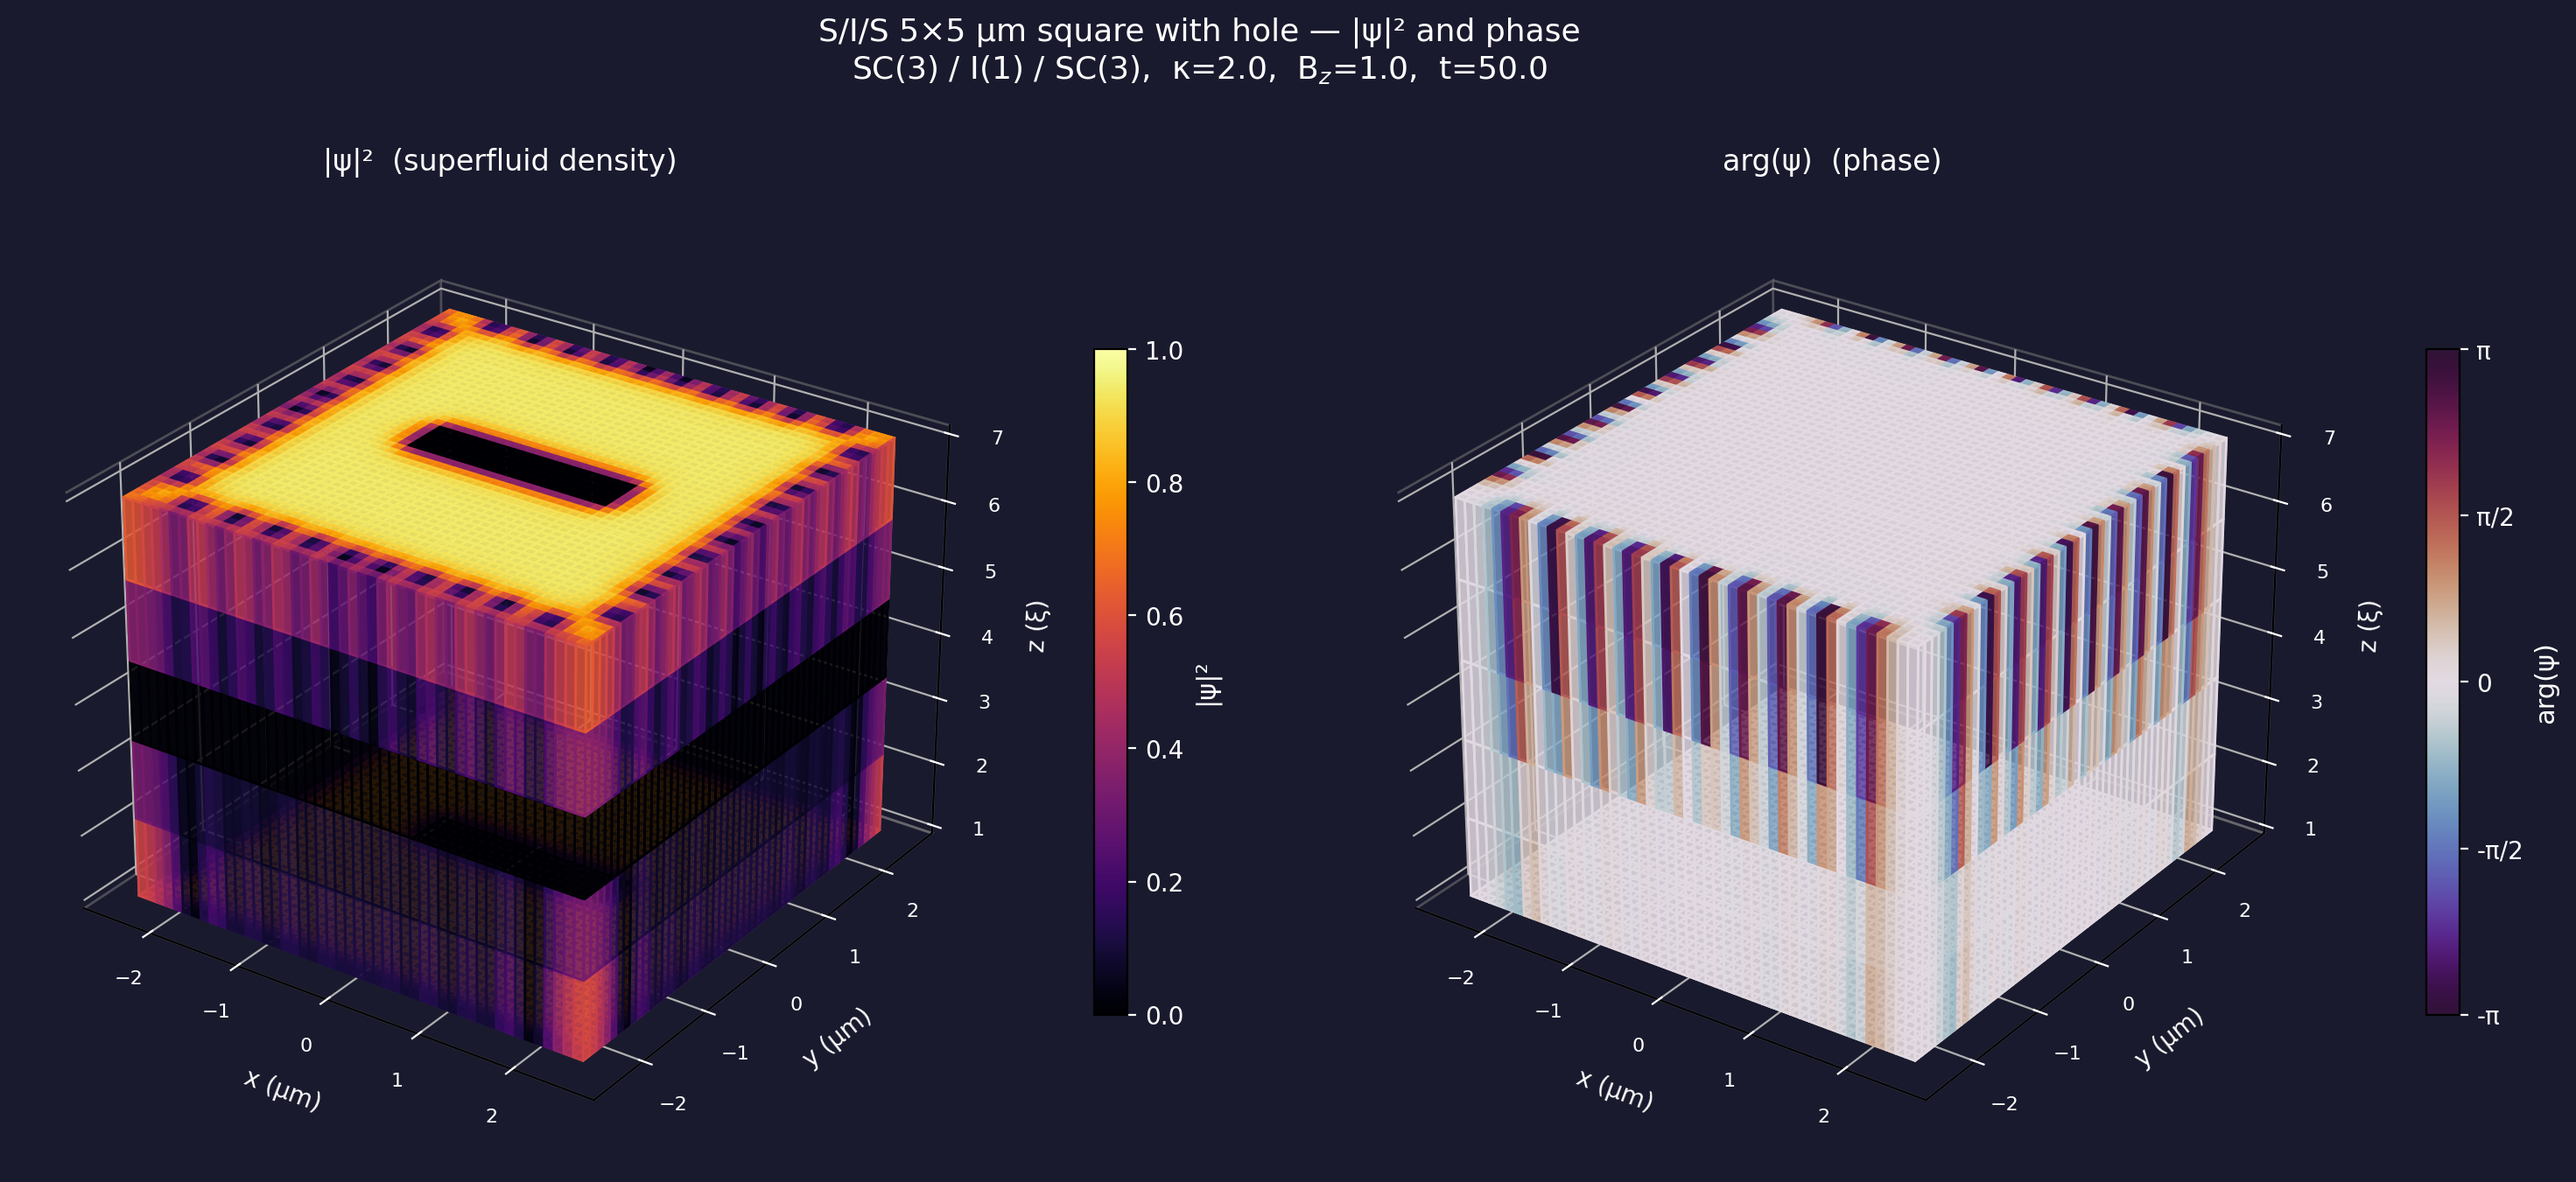
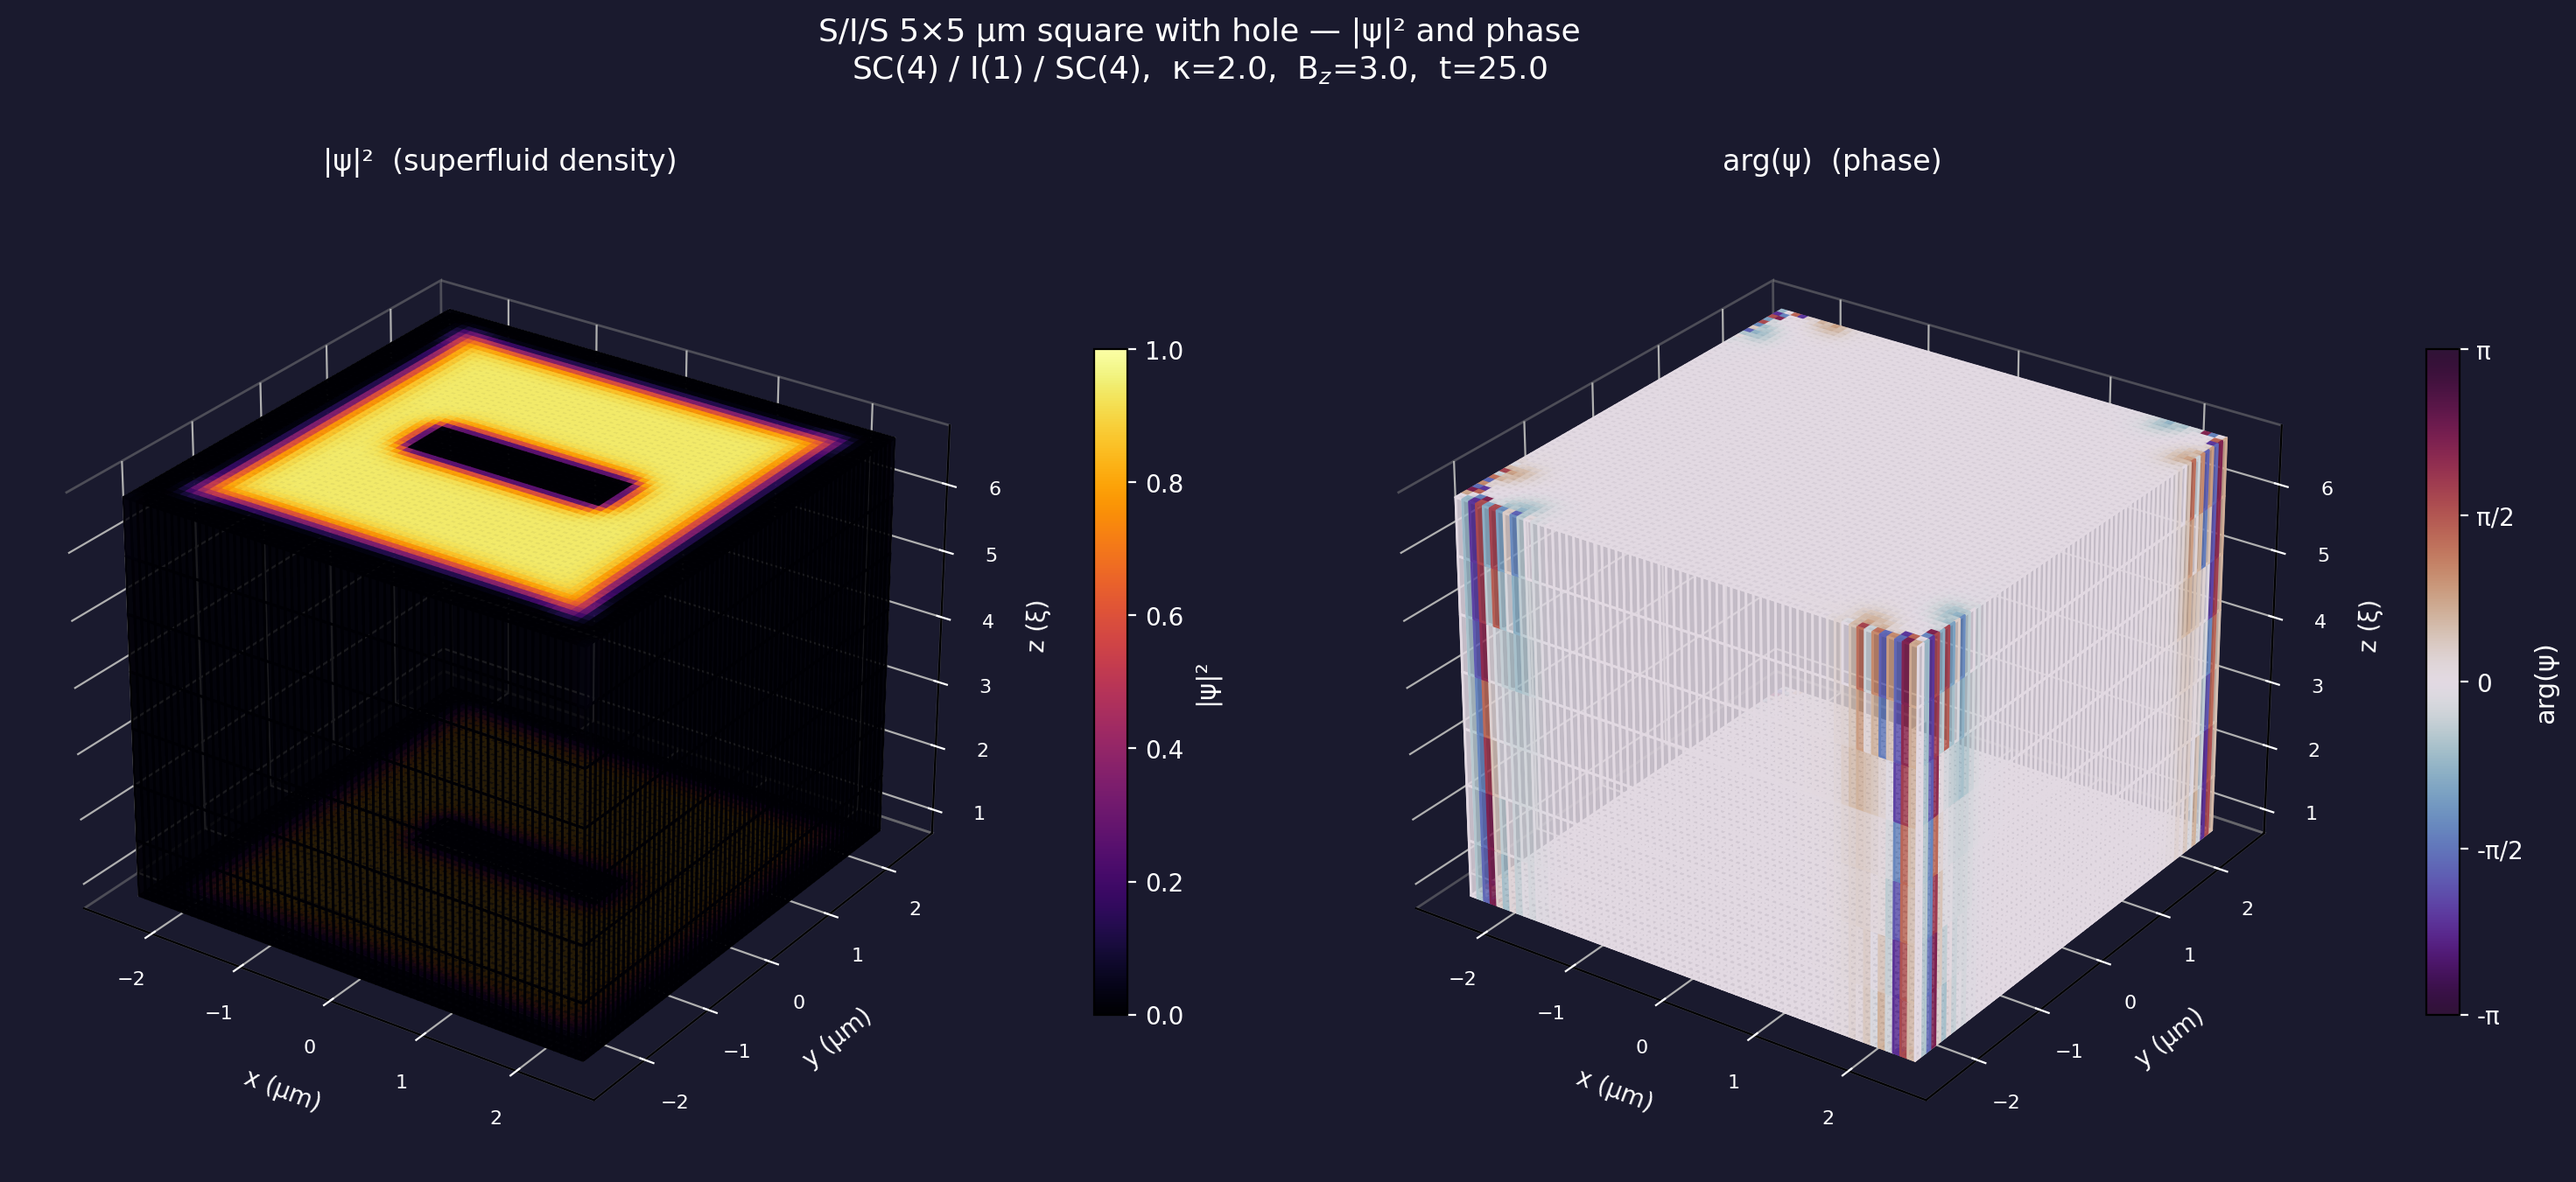
feat: update grid parameters and add isometric animation functionality for SIS square with hole simulation

Changed region(s): [[0.0309, 0.2487, 0.371, 0.9016], [0.5566, 0.2798, 0.8658, 0.9016], [0.6803, 0.2487, 0.773, 0.3109]]

diff --git a/examples/sis_square_with_hole.py b/examples/sis_square_with_hole.py
@@ -45,24 +45,24 @@ LX_XI = LX_UM / UM_PER_XI         # 50 ξ
 LY_XI = LY_UM / UM_PER_XI         # 50 ξ
 
 # Grid
-HX = HY = HZ = 1.0                # grid spacing in ξ
-NX = int(LX_XI / HX)              # 50
-NY = int(LY_XI / HY)              # 50
+HX = HY = HZ = 0.75               # grid spacing in ξ (intermediate mesh)
+NX = int(LX_XI / HX)              # ~67
+NY = int(LY_XI / HY)              # ~67
 KAPPA = 2.0                        # GL parameter
 
-# Trilayer stack: 3 SC + 1 I + 3 SC  →  Nz = 7
-SC_THICKNESS = 3                   # z-cells per SC layer
-INS_THICKNESS = 1                  # z-cells for insulator
+# Trilayer stack: 8 SC + 8 I + 8 SC  →  Nz = 24
+SC_THICKNESS = 8                   # z-cells per SC layer
+INS_THICKNESS = 8                  # z-cells for insulator
 
 # Hole bounds in µm (centred at origin)
 HOLE_X_MIN_UM, HOLE_X_MAX_UM = -1.0, 1.0
 HOLE_Y_MIN_UM, HOLE_Y_MAX_UM = -0.2, 0.2
 
 # Time integration
-DT = 0.02
-T_STOP = 50.0
-BZ = 0.5
-SAVE_EVERY = 10
+DT = 0.01
+T_STOP = 15.0
+BZ = 1.5
+SAVE_EVERY = 50
 
 
 def um_to_grid_index(coord_um: float, L_um: float, N: int) -> int:
@@ -231,8 +231,8 @@ def _psi_3d(solution: Solution, step: int = -1) -> np.ndarray:
     return solution.psi(step).reshape(p.Nx - 1, p.Ny - 1, max(p.Nz - 1, 1))
 
 
-def _get_psi2_slice(solution: Solution, axis: str, index: int) -> np.ndarray:
-    psi3d = _psi_3d(solution)
+def _get_psi2_slice(solution: Solution, axis: str, index: int, step: int = -1) -> np.ndarray:
+    psi3d = _psi_3d(solution, step=step)
     if axis == "z":
         return np.abs(psi3d[:, :, index]) ** 2
     elif axis == "y":
@@ -242,8 +242,8 @@ def _get_psi2_slice(solution: Solution, axis: str, index: int) -> np.ndarray:
     raise ValueError(axis)
 
 
-def _get_phase_slice(solution: Solution, axis: str, index: int) -> np.ndarray:
-    psi3d = _psi_3d(solution)
+def _get_phase_slice(solution: Solution, axis: str, index: int, step: int = -1) -> np.ndarray:
+    psi3d = _psi_3d(solution, step=step)
     if axis == "z":
         return np.angle(psi3d[:, :, index])
     elif axis == "y":
@@ -347,7 +347,7 @@ def plot_isometric(solution: Solution, device: tdgl3d.Device,
     cmap1 = cm.inferno
     norm1 = Normalize(vmin=0, vmax=1)
     _paint_surfaces(ax1, solution,
-                    lambda a, i: _get_psi2_slice(solution, a, i),
+                    lambda a, i: _get_psi2_slice(solution, a, i, step=-1),
                     cmap1, norm1, xs, ys, zs,
                     x_lo, x_hi, y_lo, y_hi, z_lo, z_hi)
     _draw_wireframe(ax1, x_lo, x_hi, y_lo, y_hi, z_lo, z_hi)
@@ -362,7 +362,7 @@ def plot_isometric(solution: Solution, device: tdgl3d.Device,
     cmap2 = cm.twilight_shifted
     norm2 = Normalize(vmin=-np.pi, vmax=np.pi)
     _paint_surfaces(ax2, solution,
-                    lambda a, i: _get_phase_slice(solution, a, i),
+                    lambda a, i: _get_phase_slice(solution, a, i, step=-1),
                     cmap2, norm2, xs, ys, zs,
                     x_lo, x_hi, y_lo, y_hi, z_lo, z_hi)
     _draw_wireframe(ax2, x_lo, x_hi, y_lo, y_hi, z_lo, z_hi)
@@ -378,6 +378,58 @@ def plot_isometric(solution: Solution, device: tdgl3d.Device,
                 facecolor=fig.get_facecolor())
     print(f"Saved {filename}")
     plt.close(fig)
+
+
+def animate_isometric(solution: Solution, device: tdgl3d.Device,
+                      filename: str = "sis_square_with_hole.gif",
+                      fps: int = 6, step_stride: int = 1) -> str:
+    """Create an animated GIF of the isometric |ψ|² view over time."""
+    from matplotlib.animation import FuncAnimation, PillowWriter
+
+    p = solution.params
+    nx_int, ny_int, nz_int = p.Nx - 1, p.Ny - 1, max(p.Nz - 1, 1)
+
+    x_lo = (1 * p.hx) * UM_PER_XI - LX_UM / 2.0
+    x_hi = (p.Nx * p.hx) * UM_PER_XI - LX_UM / 2.0
+    y_lo = (1 * p.hy) * UM_PER_XI - LY_UM / 2.0
+    y_hi = (p.Ny * p.hy) * UM_PER_XI - LY_UM / 2.0
+    z_lo, z_hi = 1 * p.hz, p.Nz * p.hz
+
+    xs = np.linspace(x_lo, x_hi, nx_int)
+    ys = np.linspace(y_lo, y_hi, ny_int)
+    zs = np.linspace(z_lo, z_hi, nz_int)
+
+    steps = list(range(0, solution.n_steps, step_stride))
+
+    fig = plt.figure(figsize=(10, 8))
+    fig.patch.set_facecolor("#1a1a2e")
+
+    def draw_frame(frame_idx):
+        fig.clf()
+        s = steps[frame_idx]
+        ax = fig.add_subplot(111, projection="3d")
+        cmap1 = cm.inferno
+        norm1 = Normalize(vmin=0, vmax=1)
+
+        _paint_surfaces(ax, solution,
+                        lambda a, i, _s=s: _get_psi2_slice(solution, a, i, step=_s),
+                        cmap1, norm1, xs, ys, zs,
+                        x_lo, x_hi, y_lo, y_hi, z_lo, z_hi)
+        _draw_wireframe(ax, x_lo, x_hi, y_lo, y_hi, z_lo, z_hi)
+
+        sm = cm.ScalarMappable(cmap=cmap1, norm=norm1); sm.set_array([])
+        cb = fig.colorbar(sm, ax=ax, fraction=0.03, pad=0.10, shrink=0.65)
+        _style_ax(ax, fig, cb, "|ψ|²")
+        ax.set_title(
+            f"|ψ|²  t = {solution.times[s]:.2f}   (B$_z$ ramp 0→{BZ})",
+            fontsize=12, color="white", pad=12,
+        )
+        return []
+
+    anim = FuncAnimation(fig, draw_frame, frames=len(steps), blit=False)
+    anim.save(filename, writer=PillowWriter(fps=fps))
+    plt.close(fig)
+    return filename
 
 
 def main() -> None:
@@ -445,18 +497,12 @@ def main() -> None:
     plot_xy_overview(solution, device)
     plot_isometric(solution, device)
 
-    # ── Animation ──────────────────────────────────────────────────────
-    z_ranges = device.trilayer.z_ranges()
-    k_bot = (z_ranges["bottom"][0] + z_ranges["bottom"][1]) // 2
-    sz_bot = max(k_bot - 1, 0)
-
-    from tdgl3d.visualization.plotting import animate
-    gif_path = animate(
-        solution,
+    # ── Animation (isometric |ψ|²) ───────────────────────────────────
+    gif_path = animate_isometric(
+        solution, device,
         filename="sis_square_with_hole.gif",
-        slice_z=sz_bot,
-        fps=8,
-        step_stride=1,
+        fps=6,
+        step_stride=2,
     )
     print(f"Saved animation → {gif_path}")
 
